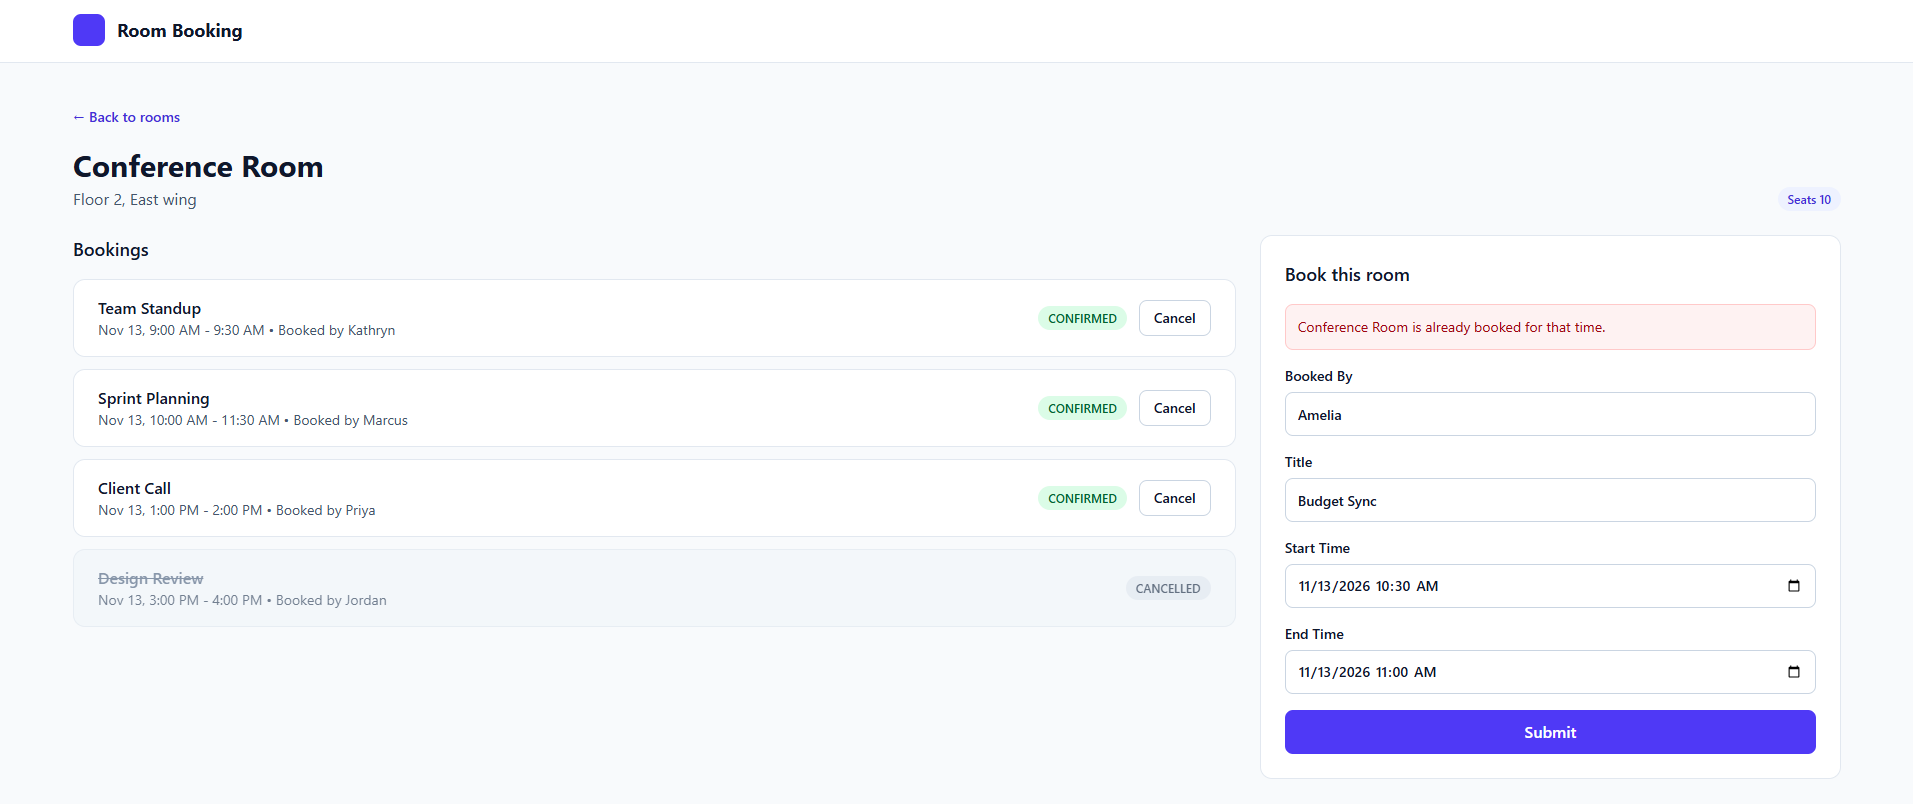
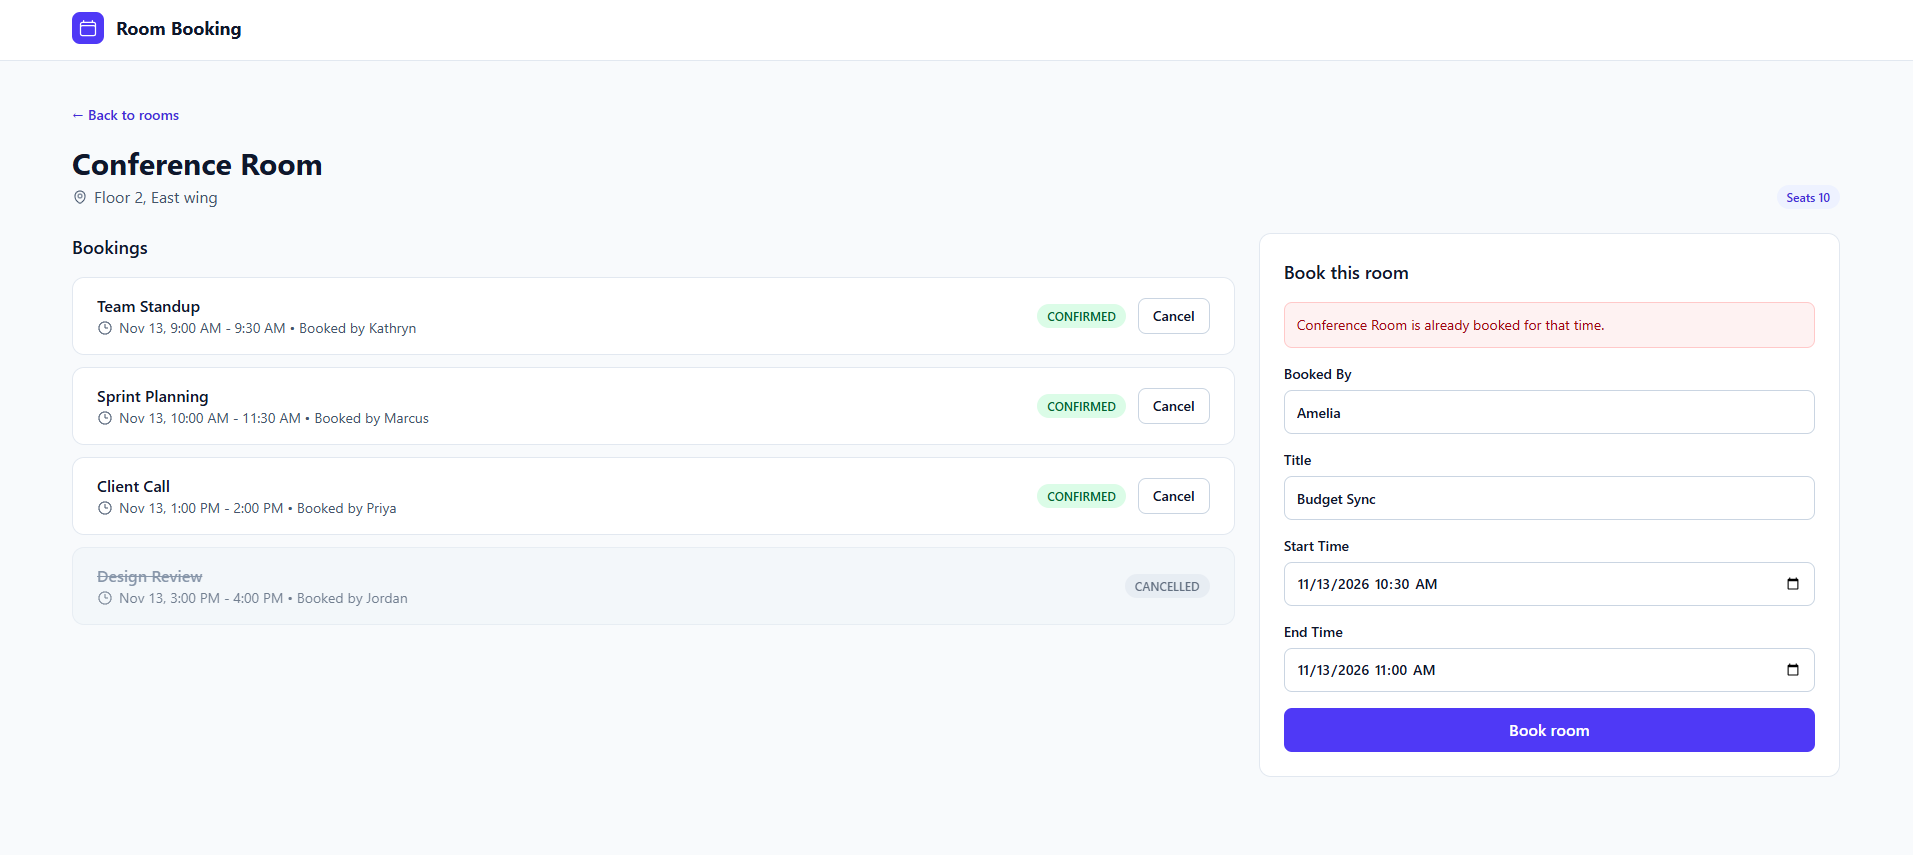
Add live demo, screenshots and deployment docs to README

diff --git a/README.md b/README.md
@@ -4,18 +4,25 @@
 
 A full-stack room and resource booking application that prevents double-bookings. Users can manage rooms and reserve time slots, and the system guarantees no two confirmed bookings for the same room ever overlap.
 
-> **Status: In progress.** The backend API is complete and tested, and the Angular frontend is complete and styled with Tailwind CSS. Deployment is next. See the [roadmap](#roadmap).
+**[Live demo](https://room-booking-system-ruby.vercel.app)** · **[API docs (Swagger)](https://room-booking-system-zc46.onrender.com/swagger-ui/index.html)**
+
+> The backend runs on Render's free tier and goes to sleep when idle, so the first load can take about 50 seconds. After that it's fast.
+
+![Rooms page](docs/screenshots/rooms.png)
+
+![Room detail page with bookings and a double-booking error](docs/screenshots/room-detail.png)
 
 ## Highlights
 
 - **Double-booking prevention at the database level.** A PostgreSQL exclusion constraint (`EXCLUDE USING gist` with time ranges) rejects overlapping bookings, so the rule holds even when two requests arrive at the same moment. Back-to-back bookings (9:00–10:00 and 10:00–11:00) are allowed using half-open `[)` ranges, and cancelled bookings free their slot.
 - **Layered architecture:** Controller → Service → Repository, with DTOs (Java records) separating the API contract from the database entities.
 - **Consistent error handling:** a global exception handler returns standard [RFC 9457](https://www.rfc-editor.org/rfc/rfc9457) problem responses with the correct status codes (400, 404, 409) and field-level validation messages.
-- **Errors shown where users need them:** the Angular frontend displays the API's validation messages under each form field, and conflicts such as double-bookings in a message at the top of the form.
+- **Errors shown where users need them:** the Angular frontend displays the API's validation messages under each form field, and conflicts such as double-bookings or duplicate room names in a message at the top of the form.
 - **Time zones handled correctly:** times are stored in UTC and shown in the user's local time zone.
-- **Responsive design:** built with Tailwind CSS, the layout adapts from phones to wide monitors.
+- **Responsive design:** built with Tailwind CSS and Heroicons, the layout adapts from phones to wide monitors.
 - **Tested at two levels:** service tests with JUnit and Mockito cover the business rules, and MockMvc tests cover status codes, validation and JSON responses. GitHub Actions runs the full suite on every push against a real PostgreSQL database.
 - **Versioned schema migrations** with Flyway, and Hibernate validates every entity against the real schema on startup.
+- **Deployed across three services,** with configuration supplied through environment variables, so the same code runs locally and in production.
 
 ## Tech Stack
 
@@ -23,11 +30,22 @@ A full-stack room and resource booking application that prevents double-bookings
 |---|---|
 | Backend | Java 21, Spring Boot 4, Spring Data JPA, Bean Validation |
 | Database | PostgreSQL 17, Flyway migrations |
-| Frontend | Angular 21 (standalone components, signals, reactive forms, routing), TypeScript, Tailwind CSS |
+| Frontend | Angular 21 (standalone components, signals, reactive forms, routing), TypeScript, Tailwind CSS, Heroicons |
 | Testing | JUnit 5, Mockito, MockMvc |
 | API docs | springdoc-openapi (Swagger UI) |
 | CI | GitHub Actions |
+| Hosting | Vercel (frontend), Render with Docker (backend), Neon (PostgreSQL) |
 | Tooling | Maven, npm, Docker, Git |
+
+## Architecture
+
+```
+Browser ──► Vercel (Angular) ──► Render (Spring Boot in Docker) ──► Neon (PostgreSQL)
+```
+
+- **Vercel** builds and serves the Angular app. A rewrite rule (`vercel.json`) sends every path to `index.html`, so Angular's router handles routes like `/rooms/2`, even on refresh.
+- **Render** builds the backend from a multi-stage `Dockerfile` and runs it. The port, database connection and allowed CORS origin all come from environment variables.
+- **Neon** hosts PostgreSQL. Flyway creates and versions the schema, including the overlap-prevention constraint.
 
 ## API Endpoints
 
@@ -35,7 +53,7 @@ A full-stack room and resource booking application that prevents double-bookings
 |---|---|---|
 | GET | `/api/rooms` | List all rooms, sorted by name |
 | GET | `/api/rooms/{id}` | Get one room |
-| POST | `/api/rooms` | Create a room |
+| POST | `/api/rooms` | Create a room (409 if the name already exists) |
 | PUT | `/api/rooms/{id}` | Update a room |
 | POST | `/api/bookings` | Create a booking (409 if it overlaps) |
 | GET | `/api/bookings/{id}` | Get one booking |
@@ -48,7 +66,7 @@ A full-stack room and resource booking application that prevents double-bookings
 {
   "status": 409,
   "title": "Conflict",
-  "detail": "Room B is already booked for that time.",
+  "detail": "Conference Room is already booked for that time.",
   "instance": "/api/bookings"
 }
 ```
@@ -59,12 +77,12 @@ The Angular app in `frontend/` talks to the API:
 
 - **Rooms page:** browse all rooms in alphabetical order and add new ones, with the API's validation messages shown under each field. New rooms appear in the list right away, in the right place.
 - **Room detail page:** open a room to see its bookings, sorted by start time and shown in your local time zone. Cancelled bookings are greyed out.
-- **Booking:** book a room from its detail page. A double-booking shows the API's 409 message ("Room B is already booked for that time.").
+- **Booking:** book a room from its detail page. A double-booking shows the API's 409 message.
 - **Cancelling:** cancel a confirmed booking, which frees its time slot for someone else.
 - **Error states:** clear messages when a room doesn't exist or the server can't be reached.
 - **Responsive layout:** forms and lists sit side by side on wide screens and stack on phones.
 
-The API address lives in one place (`src/environments/`), so the same code runs locally and in production.
+The API address lives in `src/environments/`: the development file points at `localhost`, and the production file points at the deployed backend.
 
 ## Testing
 
@@ -106,6 +124,18 @@ Every push runs the full suite on GitHub Actions.
    ```
 6. Open the app at `http://localhost:4200`
 
+### Configuration
+
+The backend reads these environment variables, with defaults for local development:
+
+| Variable | Purpose | Local default |
+|---|---|---|
+| `DB_URL` | JDBC connection URL | `jdbc:postgresql://localhost:5433/booking` |
+| `DB_USERNAME` | database user | `booking` |
+| `DB_PASSWORD` | database password | `booking` |
+| `PORT` | HTTP port | `8080` |
+| `CORS_ALLOWED_ORIGINS` | frontend address allowed to call the API | `http://localhost:4200` |
+
 ## Roadmap
 
 - [x] Database schema with overlap-prevention constraint
@@ -119,8 +149,10 @@ Every push runs the full suite on GitHub Actions.
 - [x] Angular frontend: rooms list and form, room detail with routing
 - [x] Booking form with validation and conflict messages
 - [x] Cancel bookings, error states, environment-based API config
-- [x] Responsive styling with Tailwind CSS
-- [ ] Deployment (Neon, Render, Vercel)
+- [x] Responsive styling with Tailwind CSS and Heroicons
+- [x] Deployment (Vercel, Render with Docker, Neon)
+
+**Possible next steps:** authentication, editing rooms from the UI, a weekly calendar view, and frontend tests.
 
 ## About
 
